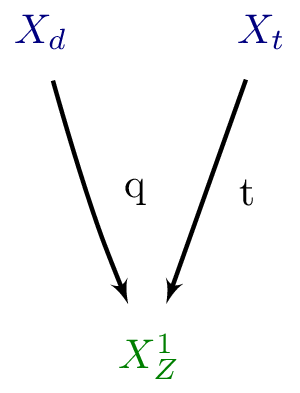
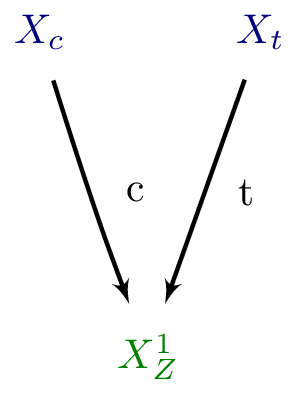
automated update by plotHiscore.py to /scratch-cbe/users/wolfgan.waltenberger/git/smodels.github.io/protomodels/2020_PioneerStudy/real7//

diff --git a/protomodels/2020_PioneerStudy/real7/index.html b/protomodels/2020_PioneerStudy/real7/index.html
@@ -1,30 +1,30 @@
 <html>
 <body>
 <center>
-<table><td><h1>Current best protomodel: K=6.75</h1><td><img height=60px src=https://smodels.github.io/pics/banner.png></table>
+<table><td><h1>Current best protomodel: K=6.58</h1><td><img height=60px src=https://smodels.github.io/pics/banner.png></table>
 </center>
-<b><a href=./hiscore.slha>ProtoModel</a> <a href=./pmodel.py>(dict)</a> produced with <a href=https://smodels.github.io/docs/Validation124>database v1.2.4</a>, combination strategy <a href=./matrix_aggressive.png>aggressive</a> in walker 39 step 370.</b> K plots for: <a href=./M1000022.png?9865726>X<sub>Z</sub><sup>1</sup></a>, <a href=./M1000006.png?9865726>X<sub>t</sub></a>, <a href=./M1000001.png?9865726>X<sub>d</sub></a>. HPD plots for: <a href=./llhd1000006.png?9865726>X<sub>t</sub></a>, <a href=./llhd1000001.png?9865726>X<sub>d</sub></a>. SSM plots for: <a href=./ssm_-1000006_1000006.png?9865726>(x&#772;<sub>t</sub>,X<sub>t</sub>)</a><br>
+<b><a href=./hiscore.slha>ProtoModel</a> <a href=./pmodel.py>(dict)</a> produced with <a href=https://smodels.github.io/docs/Validation124>database v1.2.4</a>, combination strategy <a href=./matrix_aggressive.png>aggressive</a> in walker 6 step 710.</b> K plots for: <a href=./M1000022.png?13243428>X<sub>Z</sub><sup>1</sup></a>, <a href=./M1000006.png?13243428>X<sub>t</sub></a>, <a href=./M1000004.png?13243428>X<sub>c</sub></a>. HPD plots for: <a href=./llhd1000006.png?13243428>X<sub>t</sub></a>, <a href=./llhd1000004.png?13243428>X<sub>c</sub></a>. SSM plots for: <a href=./ssm_-1000006_1000006.png?13243428>(x&#772;<sub>t</sub>,X<sub>t</sub>)</a><br>
 <table width=80%>
 <tr><td>
-<br><b>24 predictions available. Highest r values are:</b><br><ul>
-<li><a href=http://cms-results.web.cern.ch/cms-results/public-results/publications/SUS-19-006/index.html>CMS-SUS-19-006</a>:T2 r=1.30, r<sub>exp</sub>=1.13<br>
-<li><a href=http://cms-results.web.cern.ch/cms-results/public-results/publications/SUS-19-006/index.html>CMS-SUS-19-006</a>:T2tt r=1.25, r<sub>exp</sub>=1.21<br>
-<li><a href=http://cms-results.web.cern.ch/cms-results/public-results/publications/SUS-16-033/index.html>CMS-SUS-16-033</a>:T2 r=1.19, r<sub>exp</sub>=0.84<br>
-<li><a href=http://cms-results.web.cern.ch/cms-results/public-results/publications/SUS-16-051/index.html>CMS-SUS-16-051</a>:T2tt r=0.89, r<sub>exp</sub>=0.58<br>
-<li><a href=http://cms-results.web.cern.ch/cms-results/public-results/publications/SUS-16-036/index.html>CMS-SUS-16-036</a>:T2 r=0.87, r<sub>exp</sub>=0.77<br>
+<br><b>19 predictions available. Highest r values are:</b><br><ul>
+<li><a href=http://cms-results.web.cern.ch/cms-results/public-results/publications/SUS-19-006/index.html>CMS-SUS-19-006</a>:T2tt r=1.30, r<sub>exp</sub>=1.28<br>
+<li><a href=http://cms-results.web.cern.ch/cms-results/public-results/publications/SUS-19-006/index.html>CMS-SUS-19-006</a>:T2 r=1.24, r<sub>exp</sub>=1.07<br>
+<li><a href=http://cms-results.web.cern.ch/cms-results/public-results/publications/SUS-16-033/index.html>CMS-SUS-16-033</a>:T2 r=1.01, r<sub>exp</sub>=0.76<br>
+<li><a href=http://cms-results.web.cern.ch/cms-results/public-results/publications/SUS-16-036/index.html>CMS-SUS-16-036</a>:T2 r=0.74, r<sub>exp</sub>=0.74<br>
+<li><a href=https://atlas.web.cern.ch/Atlas/GROUPS/PHYSICS/PAPERS/SUSY-2016-15/>ATLAS-SUSY-2016-15</a>:T2tt r=0.65, r<sub>exp</sub>=N/A<br>
 </ul>
 <td><br><b>K values without analyses: (contribution)</b><br>
 <ul>
-<li> <a href=https://twiki.cern.ch/twiki/bin/view/CMSPublic/PhysicsResultsSUS13012>CMS-SUS-13-012</a>: 3.36 (15%)
-<li> <a href=http://cms-results.web.cern.ch/cms-results/public-results/publications/SUS-16-050/index.html>CMS-SUS-16-050</a>: 3.36 (15%)
-<li> <a href=https://atlas.web.cern.ch/Atlas/GROUPS/PHYSICS/PAPERS/SUSY-2013-02/>ATLAS-SUSY-2013-02</a>: 3.28 (15%)
-<li> <a href=https://atlas.web.cern.ch/Atlas/GROUPS/PHYSICS/PAPERS/SUSY-2016-16/>ATLAS-SUSY-2016-16</a>: 1.21 (24%)
-<li> <a href=https://atlas.web.cern.ch/Atlas/GROUPS/PHYSICS/PAPERS/SUSY-2016-07/>ATLAS-SUSY-2016-07</a>: -0.80 (32%)
-<td><img width=600px src=./texdoc.png?1602865726>
-<br><font size=-1>Last updated: Fri Oct 16 18:28:46 2020</font>
+<li> <a href=https://twiki.cern.ch/twiki/bin/view/CMSPublic/PhysicsResultsSUS13012>CMS-SUS-13-012</a>: 3.27 (15%)
+<li> <a href=http://cms-results.web.cern.ch/cms-results/public-results/publications/SUS-16-050/index.html>CMS-SUS-16-050</a>: 3.27 (15%)
+<li> <a href=https://atlas.web.cern.ch/Atlas/GROUPS/PHYSICS/PAPERS/SUSY-2013-02/>ATLAS-SUSY-2013-02</a>: 3.22 (15%)
+<li> <a href=https://atlas.web.cern.ch/Atlas/GROUPS/PHYSICS/PAPERS/SUSY-2016-16/>ATLAS-SUSY-2016-16</a>: 1.17 (24%)
+<li> <a href=https://atlas.web.cern.ch/Atlas/GROUPS/PHYSICS/PAPERS/SUSY-2016-07/>ATLAS-SUSY-2016-07</a>: -0.82 (32%)
+<td><img width=600px src=./texdoc.png?1606243428>
+<br><font size=-1>Last updated: Tue Nov 24 19:43:48 2020</font>
 </table><table style="width:80%">
-<td width=45%><img height=580px src=./ruler.png?1602865726><td width=55%><img height=380px src=./decays.png?1602865726>
-<font size=-3><iframe type="text/html" height="220px" width="100%s" frameborder="0" src="./rawnumbers.html?1602865726"></iframe></font>
+<td width=45%><img height=580px src=./ruler.png?1606243428><td width=55%><img height=380px src=./decays.png?1606243428>
+<font size=-3><iframe type="text/html" height="220px" width="100%s" frameborder="0" src="./rawnumbers.html?1606243428"></iframe></font>
 </table>
 </body>
 </html>

diff --git a/protomodels/2020_PioneerStudy/real7/rawnumbers.html b/protomodels/2020_PioneerStudy/real7/rawnumbers.html
@@ -1,9 +1,9 @@
 <table>
 <tr><th>Analysis Name</th><th>Type</th><th>Dataset</th><th>Topos</th><th>Observed</th><th>Expected</th><th>Approx &sigma;</th><th>Particles</th>
 </tr>
-<tr><td><a href=https://atlas.web.cern.ch/Atlas/GROUPS/PHYSICS/PAPERS/SUSY-2013-02/>ATLAS-SUSY-2013-02</a></td><td>em</td> <td>SR6jtp</td><td>T2</td><td>6</td><td>4.9 +/- 1.6</td><td style="text-align:right">0.4 &sigma;</td><td style="text-align:right">X<sub>d</sub></td></tr>
-<tr><td><a href=https://atlas.web.cern.ch/Atlas/GROUPS/PHYSICS/PAPERS/SUSY-2016-07/>ATLAS-SUSY-2016-07</a></td><td>em</td> <td>2j_Meff_1200</td><td>T2</td><td>611</td><td>526 +/- 31</td><td style="text-align:right">2.2 &sigma;</td><td style="text-align:right">X<sub>d</sub></td></tr>
+<tr><td><a href=https://atlas.web.cern.ch/Atlas/GROUPS/PHYSICS/PAPERS/SUSY-2013-02/>ATLAS-SUSY-2013-02</a></td><td>em</td> <td>SR6jtp</td><td>T2</td><td>6</td><td>4.9 +/- 1.6</td><td style="text-align:right">0.4 &sigma;</td><td style="text-align:right">X<sub>c</sub></td></tr>
+<tr><td><a href=https://atlas.web.cern.ch/Atlas/GROUPS/PHYSICS/PAPERS/SUSY-2016-07/>ATLAS-SUSY-2016-07</a></td><td>em</td> <td>2j_Meff_1200</td><td>T2</td><td>611</td><td>526 +/- 31</td><td style="text-align:right">2.2 &sigma;</td><td style="text-align:right">X<sub>c</sub></td></tr>
 <tr><td><a href=https://atlas.web.cern.ch/Atlas/GROUPS/PHYSICS/PAPERS/SUSY-2016-16/>ATLAS-SUSY-2016-16</a></td><td>em</td> <td>tN_high</td><td>T2tt</td><td>8</td><td>3.8 +/- 1</td><td style="text-align:right">1.9 &sigma;</td><td style="text-align:right">X<sub>t</sub></td></tr>
-<tr><td><a href=https://twiki.cern.ch/twiki/bin/view/CMSPublic/PhysicsResultsSUS13012>CMS-SUS-13-012</a></td><td>ul</td> <td>-</td><td>T2</td><td> 26.4 fb </td><td> 16.6 fb</td><td style="text-align:right">1.2 &sigma;</td><td style="text-align:right">X<sub>d</sub></td></tr>
-<tr><td><a href=http://cms-results.web.cern.ch/cms-results/public-results/publications/SUS-16-050/index.html>CMS-SUS-16-050</a></td><td>ul</td> <td>-</td><td>T2tt</td><td> 4.8 fb </td><td> 2.7 fb</td><td style="text-align:right">1.6 &sigma;</td><td style="text-align:right">X<sub>t</sub></td></tr>
+<tr><td><a href=https://twiki.cern.ch/twiki/bin/view/CMSPublic/PhysicsResultsSUS13012>CMS-SUS-13-012</a></td><td>ul</td> <td>-</td><td>T2</td><td> 19.2 fb </td><td> 11.6 fb</td><td style="text-align:right">1.3 &sigma;</td><td style="text-align:right">X<sub>c</sub></td></tr>
+<tr><td><a href=http://cms-results.web.cern.ch/cms-results/public-results/publications/SUS-16-050/index.html>CMS-SUS-16-050</a></td><td>ul</td> <td>-</td><td>T2tt</td><td> 4.7 fb </td><td> 2.7 fb</td><td style="text-align:right">1.5 &sigma;</td><td style="text-align:right">X<sub>t</sub></td></tr>
 </table>

diff --git a/protomodels/2020_PioneerStudy/real7/pmodel.py b/protomodels/2020_PioneerStudy/real7/pmodel.py
@@ -1,1 +1,1 @@
-{'masses': {1000022: 109.495, 1000001: 743.583, 1000006: 1117.577}, 'ssmultipliers': {(1000022, 1000022): 0.108, (1000001, 1000001): 0.453, (-1000001, 1000001): 0.453, (-1000001, -1000001): 0.453, (1000001, 1000022): 0.453, (-1000001, 1000022): 0.453, (1000006, 1000006): 0.997, (-1000006, 1000006): 0.997, (-1000006, -1000006): 0.997, (1000006, 1000022): 0.997, (-1000006, 1000022): 0.997, (1000001, 1000006): 0.997, (-1000006, 1000001): 0.997, (-1000001, 1000006): 0.997, (-1000006, -1000001): 0.997}, 'decays': {1000022: {}, 1000001: {(1000022, 1): 1.0}, 1000006: {(1000022, 6): 1.0}}, 'timestamp': 'Fri Oct 16 18:28:12 2020', 'Z': 3.209, 'K': 6.751, 'walkerid': 39, 'step': 370, 'codever': '1.0', 'dbver': '1.2.4'}
+{'masses': {1000022: 309.776, 1000006: 1224.189, 1000004: 897.417}, 'ssmultipliers': {(1000022, 1000022): 34.874, (1000006, 1000006): 2.008, (-1000006, 1000006): 1.886, (-1000006, -1000006): 1.886, (1000006, 1000022): 1.886, (-1000006, 1000022): 1.886, (1000004, 1000004): 1.04, (-1000004, 1000004): 1.04, (-1000004, -1000004): 1.04, (1000004, 1000022): 1.04, (-1000004, 1000022): 1.04, (1000004, 1000006): 1.04, (-1000004, 1000006): 1.04, (-1000006, 1000004): 1.04, (-1000006, -1000004): 1.04}, 'decays': {1000022: {}, 1000006: {(1000022, 6): 1.0}, 1000004: {(1000022, 4): 1.0}}, 'timestamp': 'Tue Nov 24 19:43:26 2020', 'Z': 3.183, 'K': 6.581, 'walkerid': 6, 'step': 710, 'codever': '1.0', 'dbver': '1.2.4'}
